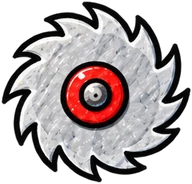
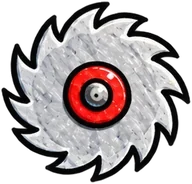
Saws read as counter-clockwise: mirrored art, slower spin
User saw the blade turning clockwise. The art's teeth were hooked
clockwise (mirrored now, icon too), and the 14 identical teeth strobed
at the old speeds (menu grind 0.2s/turn, game 0.7s/turn at <60fps),
making it look like it ran backwards. Game 1s/turn; menu 1s idle,
0.6s grinding.

diff --git a/src/client/game/constants.ts b/src/client/game/constants.ts
@@ -79,8 +79,11 @@ export const SLOW_TIME_DURATION_MS = 4000;
 export const MOVING_SAW_AMPLITUDE_PX = 90;
 export const MOVING_SAW_PERIOD_MS = 900;
 // One full spin of the sawblade art, driven by a continuous angle tween
-// (ObjectRegistry) rather than the old 8-frame saw-spin sheet.
-export const SAW_ROTATION_PERIOD_MS = 700;
+// (ObjectRegistry) rather than the old 8-frame saw-spin sheet. Counter-
+// clockwise. Kept under ~13 degrees a frame even at 30fps: the blade's 14
+// identical teeth are ~26 degrees apart, so anything faster strobes and
+// reads as spinning the wrong way.
+export const SAW_ROTATION_PERIOD_MS = 1000;
 // A Moving Platform travels farther and slower than a Moving Saw — it
 // needs to be rideable/predictable, not a fast-twitch hazard.
 export const MOVING_PLATFORM_AMPLITUDE_PX = 160;

diff --git a/src/client/ui/menuGag.ts b/src/client/ui/menuGag.ts
@@ -20,9 +20,12 @@ const STRIDE_PER_HEIGHT = 2.05;
 const RUN_HEIGHTS_PER_S = 4.2;
 const SAW_AT = 0.86; // fraction of Play's width
 const SAW_RADIUS = 0.4; // of the runner's height
-// Counter-clockwise (negative is anticlockwise on a y-down canvas).
-const SAW_SPIN = (-Math.PI * 2) / 0.6;
-const SAW_SPIN_GRINDING = (-Math.PI * 2) / 0.2;
+// Counter-clockwise (negative is anticlockwise on a y-down canvas). The 14
+// teeth are ~26 degrees apart, so a turn faster than ~13 degrees a frame
+// strobes and reads as spinning the wrong way: 1s a turn idle, and grinding
+// as fast as 60fps allows.
+const SAW_SPIN = (-Math.PI * 2) / 1.0;
+const SAW_SPIN_GRINDING = (-Math.PI * 2) / 0.6;
 
 const HOP_MS = 280;
 const GRIND_MS = 1800;
